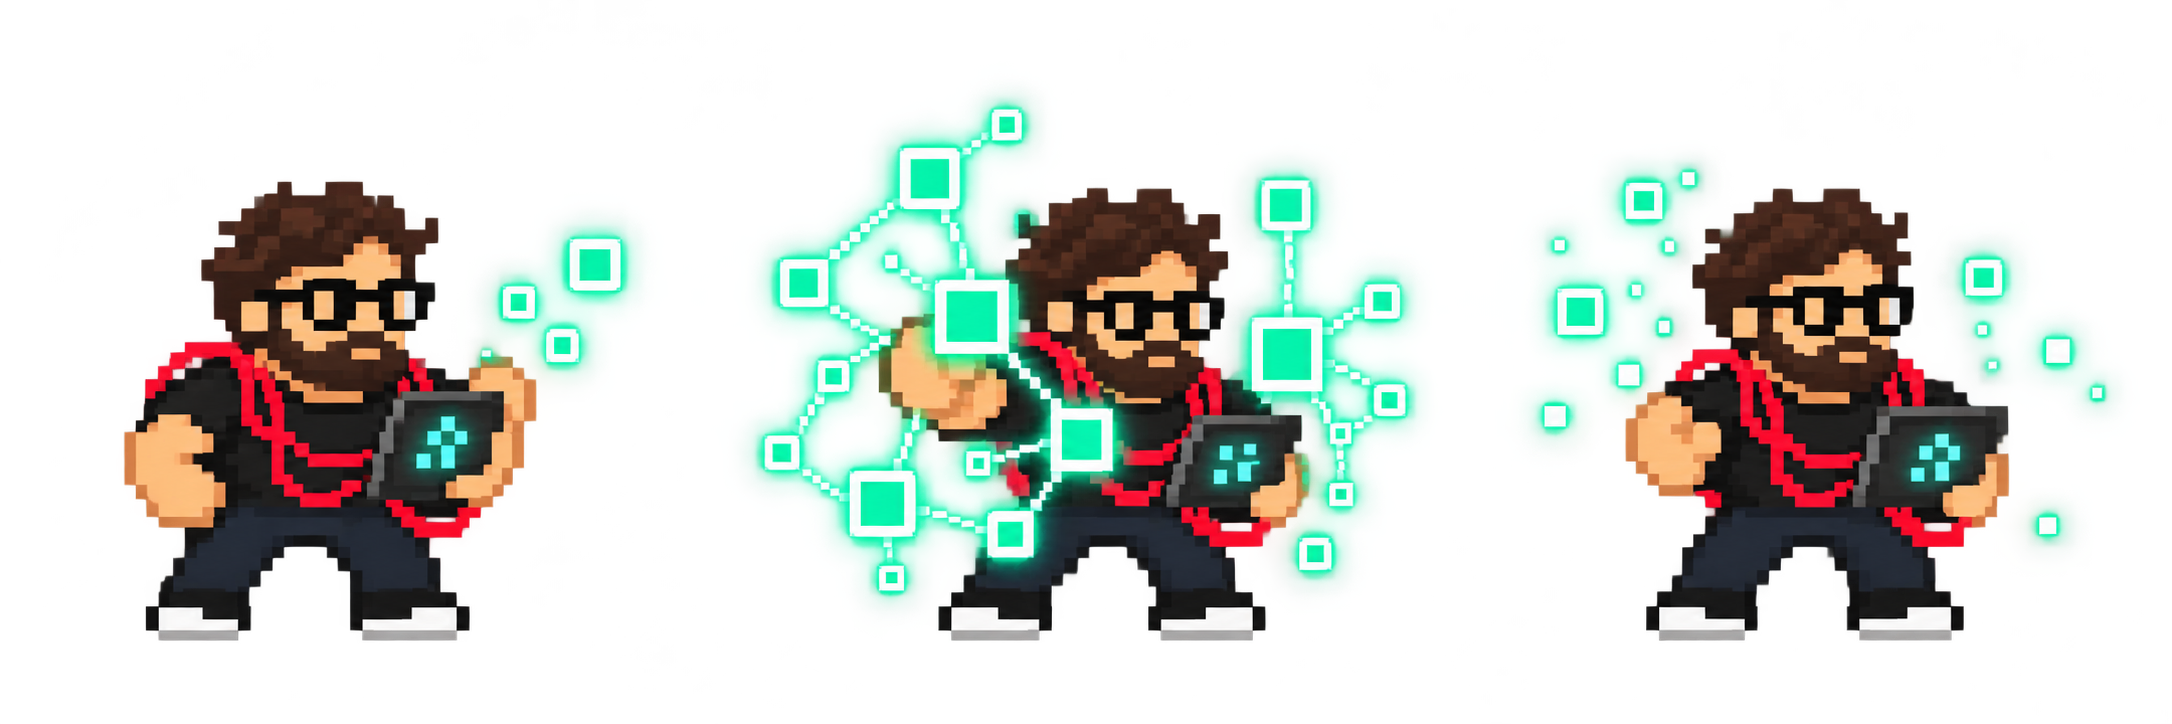
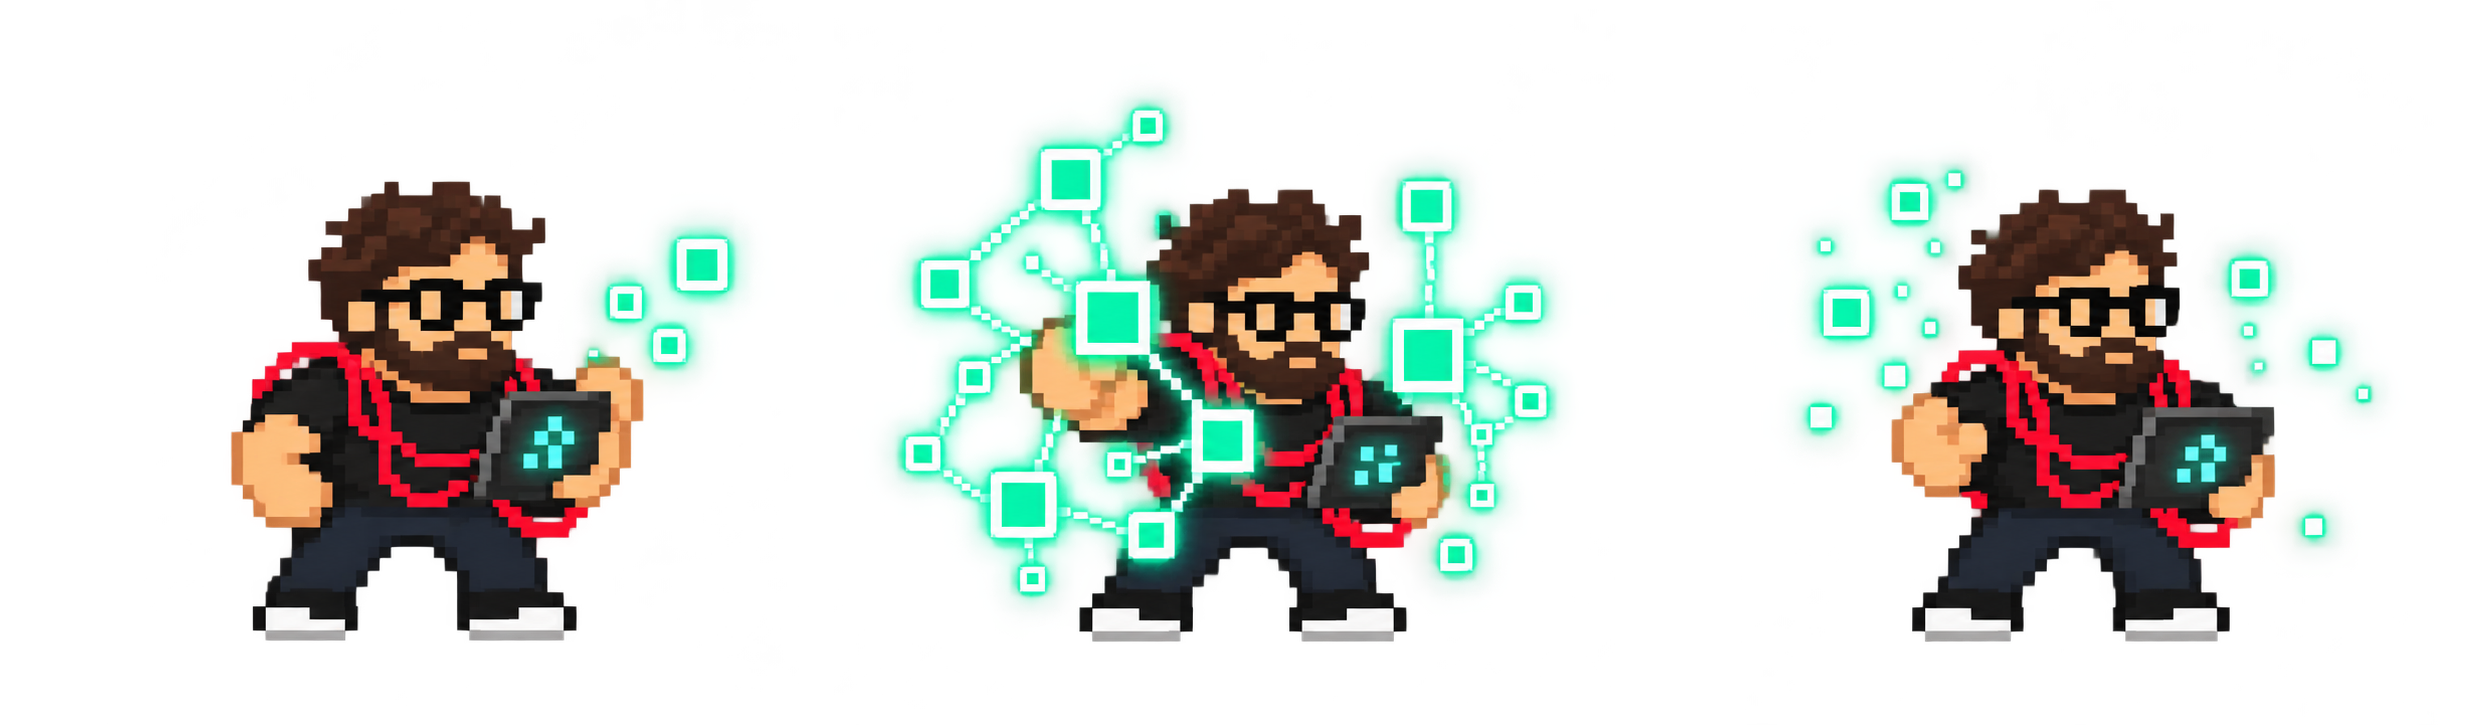
fix: boss Adam – oříznuté snímky, spawn po 5 minutách, despawn ostatních nepřátel, stín a pohupování

Changed region(s): [[0.3393, 0.1519, 0.6786, 0.8812], [0.0308, 0.2431, 0.3085, 0.9116], [0.7095, 0.2127, 0.9871, 0.8812]]

diff --git a/public/game.js b/public/game.js
@@ -19,6 +19,7 @@ let soloMode = false; // hraju sám (omezený počet oživení)
 let soloRespawns = 1; // kolik oživení má hráč, který hraje sám
 let gameOver = null; // po konci hry { remainingMs, survivedMs, results }
 let adamState = null; // boss Adam ze serveru (nebo null)
+let adamIn = null; // za kolik sekund se boss objeví (null = už je tu / byl poražen)
 let adamAttackId = 0;
 let adamAttackT0 = 0;
 const bossFx = new Map(); // id -> efekt bosse (projektily, varování, zóny)
@@ -51,6 +52,7 @@ ws.onmessage = (e) => {
 
     // Boss Adam a jeho efekty (server posílá jen to, co se má nakreslit)
     adamState = msg.adam || null;
+    adamIn = msg.adamIn ?? null;
     if (adamState && adamState.attack && adamState.attack.id !== adamAttackId) {
       adamAttackId = adamState.attack.id;
       adamAttackT0 = performance.now() - adamState.attack.elapsed; // lokální čas začátku útoku
@@ -521,22 +523,25 @@ function updateBuffPicker(me) {
 }
 
 // ---------- Boss Adam: sprity, efekty a UI ----------
-// Sheety mají pravidelnou mřížku (boss 724 × 724, VFX 543 × 724), snímky se ořezávají přímo při kreslení.
-// Kotvy (chodidla bosse / střed efektu) jsou v ADAM.anchors, takže boss při změně pózy neposkočí.
+// Atlasy a kotvy vyrábí tools/build_adam_atlas.py (snímky v originálních sheetech přetékají přes hranice
+// buněk, proto se neořezávají po mřížce). Kotva bosse = střed mezi chodidly (boss neposkakuje), kotva VFX = střed efektu.
 const adamImgs = {};
+let adamAtlas = null;
 let adamLoaded = 0;
-const ADAM_FILES = {
-  neural: "boss-neural.png", barbell: "boss-barbell.png", overclock: "boss-overclock.png",
-  vfxNeural: "vfx-neural.png", vfxShock: "vfx-shockwave.png", vfxOverclock: "vfx-overclock.png",
-};
-for (const [key, file] of Object.entries(ADAM_FILES)) {
-  const img = new Image();
-  img.onload = () => adamLoaded++;
-  img.onerror = () => console.warn("Sprite bosse se nenačetl:", file);
-  img.src = "assets/adam/" + file;
-  adamImgs[key] = img;
-}
-function adam_ready() { return adamLoaded === Object.keys(ADAM_FILES).length; }
+fetch("assets/adam/atlas.json")
+  .then((r) => r.json())
+  .then((atlas) => {
+    adamAtlas = atlas.sheets;
+    for (const [key, sh] of Object.entries(adamAtlas)) {
+      const img = new Image();
+      img.onload = () => adamLoaded++;
+      img.onerror = () => console.warn("Sprite bosse se nenačetl:", sh.file);
+      img.src = "assets/adam/" + sh.file;
+      adamImgs[key] = img;
+    }
+  })
+  .catch((err) => console.warn("Atlas bosse se nenačetl:", err));
+function adam_ready() { return adamAtlas && adamLoaded === Object.keys(adamAtlas).length; }
 
 const ATTACK_LABELS = { neural: "Neural Network", barbell: "Barbell Shockwave", overclock: "Overclock Cables" };
 
@@ -562,14 +567,23 @@ function adamPose(b, now) {
 
 function drawAdam(ctx, b, now) {
   const pose = adamPose(b, now);
-  const [ax, ay] = ADAM.anchors[pose.sheet][pose.frame];
-  const S = ADAM.scale.boss, C = ADAM.bossCell;
+  const sh = adamAtlas[pose.sheet];
+  const [ax, ay] = sh.anchors[pose.frame];
+  const S = ADAM.scale.boss;
   const x = Math.round(b.x), y = Math.round(b.y);
 
-  // stín
-  ctx.fillStyle = "rgba(0,0,0,0.3)";
+  // lehké pohupování (boss se nehýbe z místa, jen "dýchá"); poražený stojí klidně
+  const bob = b.defeated ? 0 : Math.sin((now / ADAM.bob.periodMs) * Math.PI * 2) * ADAM.bob.amplitude;
+  const lift = Math.max(0, bob); // stín se při nadzvednutí trochu zmenší a zesvětlí
+
+  // stín (dvě vrstvy: měkký okraj a tmavší střed)
+  ctx.fillStyle = `rgba(0,0,0,${0.22 - lift * 0.04})`;
   ctx.beginPath();
-  ctx.ellipse(x, y, 20, 6, 0, 0, Math.PI * 2);
+  ctx.ellipse(x, y, 30 - lift, 9 - lift * 0.3, 0, 0, Math.PI * 2);
+  ctx.fill();
+  ctx.fillStyle = `rgba(0,0,0,${0.3 - lift * 0.05})`;
+  ctx.beginPath();
+  ctx.ellipse(x, y, 22 - lift, 6 - lift * 0.2, 0, 0, Math.PI * 2);
   ctx.fill();
 
   // poražený boss se pomalu ztrácí; při přechodu do další fáze bliká
@@ -577,7 +591,10 @@ function drawAdam(ctx, b, now) {
   if (b.defeated) ctx.globalAlpha = Math.max(0.25, 1 - b.defeatedAgo / (ADAM.defeatedLingerMs * 1.2));
   const flash = b.hit || (b.blink && Math.floor(now / 90) % 2 === 0);
   if (flash) ctx.filter = "brightness(1.9)";
-  ctx.drawImage(adamImgs[pose.sheet], pose.frame * C, 0, C, C, Math.round(x - ax * S), Math.round(y - ay * S), C * S, C * S);
+  ctx.drawImage(
+    adamImgs[pose.sheet], pose.frame * sh.cellW, 0, sh.cellW, sh.cellH,
+    Math.round(x - ax * S), Math.round(y - ay * S - bob), sh.cellW * S, sh.cellH * S
+  );
   ctx.restore();
 
   // označený (Fotograf) boss má nad sebou žlutou šipku
@@ -591,8 +608,9 @@ function drawAdam(ctx, b, now) {
 // Nakreslí snímek VFX se středem v (x, y), případně otočený (0 = doprava) a průhledný
 function drawVfx(ctx, sheet, frame, x, y, scale, angle = 0, alpha = 1) {
   const img = adamImgs[sheet];
-  const [ax, ay] = ADAM.anchors[sheet][frame];
-  const W = ADAM.vfxCell, H = ADAM.vfxCellH;
+  const sh = adamAtlas[sheet];
+  const [ax, ay] = sh.anchors[frame];
+  const W = sh.cellW, H = sh.cellH;
   ctx.save();
   ctx.globalAlpha = alpha;
   ctx.translate(Math.round(x), Math.round(y));
@@ -975,6 +993,7 @@ function frame(now) {
   // HUD
   if (connected) {
     let hudText = `Hráči online: ${players.size}  |  Enemáci na mapě: ${enemies.size}  |  Obtížnost: úroveň ${difficultyLevel}\n`;
+    if (adamIn != null) hudText += `Boss Adam přijde za ${Math.floor(adamIn / 60)}:${String(adamIn % 60).padStart(2, "0")}\n`;
     const boss = [...enemies.values()].find((e) => e.boss);
     if (boss) hudText += `⚠ BOSS ${boss.name}: ${Math.ceil(boss.hp)}/${Math.ceil(boss.maxHp)} HP\n`;
     if (me) {

diff --git a/server.js b/server.js
@@ -354,6 +354,8 @@ function spawnAdam(now) {
     wanderDir: { x: 0, y: 0 }, wanderTimer: 0,
     hitUntil: 0, respawnTimer: 0, markedUntil: 0, stunUntil: 0, slowUntil: 0,
   };
+  // Souboj s bossem: všichni ostatní nepřátelé zmizí a nové se objeví, až když je boss poražen
+  enemies.length = 0;
   enemies.push(adam.e);
   Object.assign(adam, { spawned: true, state: "idle", phase: 1, attack: null, history: [], fx: [] });
   adam.nextAttackAt = now + 2500; // první útok až po chvíli, ať se hráči rozkoukají
@@ -366,6 +368,10 @@ function onAdamDefeated(now) {
   adam.defeatedAt = now;
   adam.attack = null;
   adam.fx = []; // všechny efekty a zóny zmizí
+  // běžní nepřátelé se po souboji vrátí
+  for (let n = enemies.filter((e) => !e.boss && !e.adam).length; n < enemyCountForLevel(level); n++) {
+    enemies.push(spawnEnemy(enemyDefIndexForLevel(level, n)));
+  }
   console.log(`  ✔ Boss ${ADAM.name} poražen!`);
 }
 
@@ -977,6 +983,8 @@ function broadcastState(now) {
             : null,
         }
       : null,
+    // za kolik sekund se boss objeví (null = už je tady nebo byl poražen)
+    adamIn: !adam.spawned && !adam.defeated ? Math.max(0, Math.ceil(ADAM.spawnAfterSec - difficultyTime)) : null,
     bossFx: adam.fx.map((f) => ({
       id: f.id,
       kind: f.kind,
@@ -1039,13 +1047,17 @@ setInterval(() => {
     if (newLevel > level) {
       level = newLevel;
       console.log(`  Úroveň obtížnosti: ${level}`);
-      // nových nepřátel přibude, aby jich bylo tolik, kolik odpovídá úrovni (boss se nepočítá)
-      for (let n = enemies.filter((e) => !e.boss && !e.adam).length; n < enemyCountForLevel(level); n++) {
-        enemies.push(spawnEnemy(enemyDefIndexForLevel(level, n)));
-      }
-      if (level >= DIFFICULTY.bossFirstLevel && (level - DIFFICULTY.bossFirstLevel) % DIFFICULTY.bossEvery === 0) {
-        enemies.push(createEnemy(BOSS_DEF));
-        console.log(`  ⚠ Objevil se boss (${BOSS_DEF.name})`);
+      // nových nepřátel přibude, aby jich bylo tolik, kolik odpovídá úrovni (boss se nepočítá);
+      // při souboji s Adamem se žádní nepřátelé ani slizí boss neobjevují
+      const bossFight = adam.spawned && adam.state !== "defeated";
+      if (!bossFight) {
+        for (let n = enemies.filter((e) => !e.boss && !e.adam).length; n < enemyCountForLevel(level); n++) {
+          enemies.push(spawnEnemy(enemyDefIndexForLevel(level, n)));
+        }
+        if (level >= DIFFICULTY.bossFirstLevel && (level - DIFFICULTY.bossFirstLevel) % DIFFICULTY.bossEvery === 0) {
+          enemies.push(createEnemy(BOSS_DEF));
+          console.log(`  ⚠ Objevil se boss (${BOSS_DEF.name})`);
+        }
       }
     }
   } else if (level > 1 || difficultyTime > 0) {

diff --git a/public/shared/adam.js b/public/shared/adam.js
@@ -11,9 +11,10 @@
   return {
     name: "Adam — AI & Gym Overlord",
 
-    // Kdy se boss objeví. Je to čas hry s aspoň jedním hráčem (s). 0 = hned na začátku.
-    // Později stačí číslo zvýšit, třeba na 120 = po dvou minutách.
-    spawnAfterSec: 0,
+    // Kdy se boss objeví: po tolika sekundách hry (počítá se jen, když je ve hře aspoň jeden hráč).
+    // 0 = hned na začátku, 300 = po pěti minutách. Když se boss objeví, běžní nepřátelé zmizí
+    // a nové se objevují, až když je boss poražen.
+    spawnAfterSec: 300,
 
     // Boss stojí na jednom místě: střed mapy + tenhle posun
     offset: { x: 0, y: -70 },
@@ -62,7 +63,7 @@
         flashMs: 80, // VFX snímek 1 (centrální náraz)
         expandMs: 200, // VFX snímek 2 (expandující prstenec = hlavní damage)
         decayMs: 180, // VFX snímek 3
-        radius: 90, // vodorovný poloměr prstence (px)
+        radius: 96, // vodorovný poloměr prstence (px)
         aspect: 0.4, // svislý poloměr = radius * aspect (sprite je kreslený jako elipsa)
         thickness: 0.15, // tloušťka prstence (podíl poloměru)
         damage: 1,
@@ -89,23 +90,10 @@
     },
 
     // Kreslení: měřítko (pixely mapy na jeden pixel obrázku) – jen vzhled
+    bob: { amplitude: 1.3, periodMs: 1700 }, // lehké pohupování bosse (px mapy, ms)
     scale: { boss: 0.11, neural: 0.11, barbell: 0.33, overclock: 0.11 },
 
-    // Rozměry buněk ve spritesheetech
-    bossCell: 724,
-    vfxCell: 543,
-    vfxCellH: 724,
-
-    // Kotvy snímků (px v buňce): boss = střed mezi chodidly, VFX = střed efektu.
-    // Změřeno z obrázků (sheety nemají postavu ve všech snímcích na stejném místě,
-    // proto se každý snímek zarovná podle chodidel, aby boss neposkakoval).
-    anchors: {
-      neural: [[307, 629], [377, 629], [356, 629]],
-      barbell: [[337, 626], [254, 626], [274, 636]],
-      overclock: [[340, 628], [332, 628], [332, 628]],
-      vfxNeural: [[280, 367], [240, 375], [278, 396], [245, 363]],
-      vfxShock: [[290, 407], [271, 388], [271, 396], [253, 394]],
-      vfxOverclock: [[323, 350], [260, 356], [272, 358], [253, 363]],
-    },
+    // Rozměry buněk a kotvy snímků jsou v public/assets/adam/atlas.json
+    // (vyrábí je tools/build_adam_atlas.py ze zdrojových sheetů v assets-src/adam/)
   };
 });

diff --git a/tools/build_adam_atlas.py b/tools/build_adam_atlas.py
@@ -1,0 +1,121 @@
+#!/usr/bin/env python3
+"""
+Jednorázový nástroj: z dodaných spritesheetů bosse Adama (assets-src/adam/*.png) vyrobí atlasy
+(public/assets/adam/*.png + atlas.json).
+
+Proč se sheety neřežou po pevné mřížce 724 / 543 px:
+postavy a efekty v nich přetékají přes hranice buněk (činka, prstenec shockwave, kabely), takže by se
+při ořezu po mřížce uřízly. Skript proto snímky najde podle průhlednosti (hledá nejširší prázdné mezery
+mezi snímky), každý snímek ořízne celý, zarovná ho podle kotvy (boss = střed mezi chodidly, VFX = střed efektu)
+a vloží do buňky stejné velikosti tak, aby kotva byla ve všech snímcích stejná. Jen se kopírují pixely
+(žádné vyhlazování ani změna barev).
+
+Použití (z kořene repozitáře):
+    python3 tools/build_adam_atlas.py
+Potřebuje: Pillow, numpy, scipy  (pip3 install pillow numpy scipy)
+"""
+import json
+import os
+
+import numpy as np
+from PIL import Image
+from scipy import ndimage
+
+ROOT = os.path.dirname(os.path.dirname(os.path.abspath(__file__)))
+SRC = os.path.join(ROOT, "assets-src", "adam")
+OUT = os.path.join(ROOT, "public", "assets", "adam")
+
+# klíč v atlasu -> (soubor, počet snímků, typ kotvy)
+SHEETS = {
+    "neural": ("boss-neural.png", 3, "feet"),
+    "barbell": ("boss-barbell.png", 3, "feet"),
+    "overclock": ("boss-overclock.png", 3, "feet"),
+    "vfxNeural": ("vfx-neural.png", 4, "center"),
+    "vfxShock": ("vfx-shockwave.png", 4, "center"),
+    "vfxOverclock": ("vfx-overclock.png", 4, "center"),
+}
+ALPHA = 20  # od téhle průhlednosti je pixel "vidět"
+MARGIN = 6
+
+
+def split_frames(alpha, n):
+    """Hranice snímků: uprostřed (n-1) nejširších prázdných mezer mezi obsahem."""
+    occupied = (alpha > ALPHA).any(axis=0)
+    gaps, start = [], None
+    for x, o in enumerate(occupied):
+        if not o and start is None:
+            start = x
+        if o and start is not None:
+            gaps.append((start, x - 1))
+            start = None
+    inner = [g for g in gaps if g[0] > 0 and g[1] < len(occupied) - 1]
+    inner.sort(key=lambda g: g[1] - g[0], reverse=True)
+    seps = sorted((g[0] + g[1]) // 2 for g in inner[: n - 1])
+    if len(seps) != n - 1:
+        raise SystemExit(f"nenašel jsem {n - 1} mezer mezi snímky")
+    edges = [0] + [s + 1 for s in seps] + [len(occupied)]
+    return list(zip(edges[:-1], edges[1:]))
+
+
+def feet_anchor(rgba, x0, x1):
+    """Střed mezi botami (bílé tenisky ve spodní části snímku) a spodek bot."""
+    f = rgba[:, x0:x1]
+    white = (f[..., 3] > 200) & (f[..., 0] > 195) & (f[..., 1] > 195) & (f[..., 2] > 195)
+    white[:560] = False
+    white[645:] = False
+    lab, k = ndimage.label(ndimage.binary_dilation(white, iterations=3))
+    blobs = []
+    for i in range(1, k + 1):
+        ys, xs = np.where((lab == i) & white)
+        if len(xs) > 500:
+            blobs.append((xs.min(), xs.max(), ys.max()))
+    if not blobs:
+        raise SystemExit("nenašel jsem boty")
+    left = min(b[0] for b in blobs)
+    right = max(b[1] for b in blobs)
+    return (left + right) // 2 + x0, int(np.median([b[2] for b in blobs]))
+
+
+def build(key, file, n, kind):
+    rgba = np.array(Image.open(os.path.join(SRC, file)).convert("RGBA"))
+    alpha = rgba[..., 3]
+    frames = []
+    for x0, x1 in split_frames(alpha, n):
+        ys, xs = np.where(alpha[:, x0:x1] > ALPHA)
+        bx0, bx1, by0, by1 = xs.min() + x0, xs.max() + x0, ys.min(), ys.max()
+        if kind == "feet":
+            ax, ay = feet_anchor(rgba, x0, x1)
+        else:
+            ax, ay = (bx0 + bx1) // 2, (by0 + by1) // 2
+        frames.append({"x0": x0, "x1": x1, "ax": ax, "ay": ay,
+                       "left": ax - x0, "right": x1 - ax, "up": ay, "down": rgba.shape[0] - ay})
+
+    # buňka stejná pro všechny snímky, kotva uprostřed vodorovně
+    half = max(max(f["left"], f["right"]) for f in frames) + MARGIN
+    up = max(f["up"] for f in frames)
+    down = max(f["down"] for f in frames)
+    cell_w, cell_h = 2 * half, up + down
+    atlas = np.zeros((cell_h, cell_w * n, 4), np.uint8)
+    anchors = []
+    for i, f in enumerate(frames):
+        crop = rgba[:, f["x0"]:f["x1"]]
+        dx = i * cell_w + half - f["left"]
+        dy = up - f["up"]
+        atlas[dy:dy + crop.shape[0], dx:dx + crop.shape[1]] = crop
+        anchors.append([half, up])
+    Image.fromarray(atlas).save(os.path.join(OUT, file), optimize=True)
+    print(f"{key:13s} {n} snímků, buňka {cell_w}x{cell_h}, kotvy v buňce ({half}, {up}); "
+          + ", ".join(f"[{f['x0']}-{f['x1']}]" for f in frames))
+    return {"file": file, "cols": n, "cellW": int(cell_w), "cellH": int(cell_h), "anchors": [[int(a), int(b)] for a, b in anchors]}
+
+
+def main():
+    os.makedirs(OUT, exist_ok=True)
+    atlas = {"sheets": {k: build(k, *v) for k, v in SHEETS.items()}}
+    with open(os.path.join(OUT, "atlas.json"), "w") as f:
+        json.dump(atlas, f, indent=2)
+        f.write("\n")
+
+
+if __name__ == "__main__":
+    main()

diff --git a/README.md b/README.md
@@ -60,8 +60,9 @@ Velikost postavy ve hře se mění konstantou `PHOTO_SCALE` v `public/game.js`.
 
 ## Boss Adam
 
-**Adam — AI & Gym Overlord** stojí uprostřed arény (nad středem mapy) a nehýbe se. Zatím se objeví **hned na začátku hry**
-(`spawnAfterSec: 0` v `public/shared/adam.js`; až se bude testovat časování, stačí to číslo zvýšit). Má lištu životů vpravo nahoře
+**Adam — AI & Gym Overlord** stojí uprostřed arény (nad středem mapy) a nehýbe se. Objeví se **po 5 minutách hry** s aspoň jedním hráčem
+(`spawnAfterSec: 300` v `public/shared/adam.js`, 0 = hned; v HUD je odpočet). **Když se boss objeví, všichni ostatní nepřátelé zmizí** a nové
+se objevují, až když je boss poražen. Boss má stín a lehce se pohupuje (`ADAM.bob`). Má lištu životů vpravo nahoře
 a fáze podle zbývajících životů:
 1. **Fáze 1 (100–61 %)** – jen **Neural Network**: datový projektil letí na pozici hráče v okamžiku výstřelu (značka dopadu je vidět),
    při dopadu výbuch a neuronová past na 3 s (zpomaluje a občas zraní).
@@ -72,7 +73,8 @@ a fáze podle zbývajících životů:
 Stejný útok nejde víc než dvakrát po sobě a cíl se střídá mezi živými hráči. Životy rostou s počtem hráčů (×1,65 pro dva).
 Po porážce boss přestane útočit, efekty zmizí a ukáže se „VÍTĚZSTVÍ!“. Všechna čísla (HP, poškození, cooldowny, telegraphy, rychlosti,
 životnost zón, kotvy snímků) jsou v `public/shared/adam.js`, logika v `server.js` (`updateAdam`, `startAdamAttack`, `updateAdamFx`),
-vykreslení v `public/game.js`. Sprity jsou v `public/assets/adam/` (zdrojový concept v `assets-src/adam/`).
+vykreslení v `public/game.js`. Sprity: původní sheety jsou v `assets-src/adam/`, hotové atlasy v `public/assets/adam/` – vyrábí je `python3 tools/build_adam_atlas.py`
+(snímky v sheetech přetékají přes hranice buněk, proto se hledají podle mezer v průhlednosti a ne po pevné mřížce; potřebuje `pip3 install pillow numpy scipy`).
 
 ## Obtížnost (vlny jako ve Survivor.io)
 
